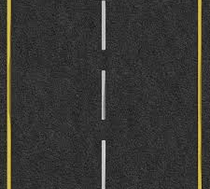
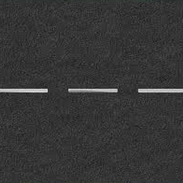
ajout texture route

diff --git a/src/utils.cpp b/src/utils.cpp
@@ -59,11 +59,11 @@ static void vecteur_orthogonal (std::vector<Point> & points, std::vector<Vector>
 
 static void points_cercle(Point & p1, Point & p2, Vector & v, std::vector<Point> & pc, std::vector<Vector> & nm){
   Vector axe(p1,p2);
-  float angle = 30.0;
+  float angle = 10.0;
   Transform tr = Rotation(axe, angle);
   Transform tt;
   Point p, pt;
-  for(int i = 0; i < 12; i++){
+  for(int i = 0; i < 36; i++){
     v = tr(v);
     tt = Translation(v);
     p = Point (p1.x-v.x, p1.y-v.y, p1.z-v.z);
@@ -124,6 +124,7 @@ static float longueur_tube(const std::vector<Point> & points) {
 
 static void dessine_triangles(Mesh& m, const std::vector<std::vector<Point>> & cercles, const std::vector<std::vector<Vector>> & norm, const float & lgt){
   unsigned int i, j,a, b, c, d, la, lb, lc, ld;
+  unsigned int repete = 15;
   float lgp = 0.0;
   float lgps = 0.0;
   float ang,angs;
@@ -137,20 +138,20 @@ static void dessine_triangles(Mesh& m, const std::vector<std::vector<Point>> & c
     for(j = 0; j < cercles[i].size() - 1; j++){
       ang = (float(j)*30)/360;
       angs = (float(j+1)*30)/360;
-      std::cout<<lgp/lgt << " , " << angs << std::endl;
-      a = m.texcoord(lgp/lgt, ang).normal(norm[i][j]).vertex(cercles[i][j]);
-      b = m.texcoord(lgps/lgt, ang).normal(norm[i+1][j]).vertex(cercles[i+1][j]);
-      c = m.texcoord(lgps/lgt, angs).normal(norm[i+1][j+1]).vertex(cercles[i+1][j+1]);
-      d = m.texcoord(lgp/lgt, angs).normal(norm[i][j+1]).vertex(cercles[i][j+1]);
+      std::cout<<lgp/lgt * repete << " , " << angs << std::endl;
+      a = m.texcoord(lgp/lgt * repete, ang).normal(norm[i][j]).vertex(cercles[i][j]);
+      b = m.texcoord(lgps/lgt * repete, ang).normal(norm[i+1][j]).vertex(cercles[i+1][j]);
+      c = m.texcoord(lgps/lgt * repete, angs).normal(norm[i+1][j+1]).vertex(cercles[i+1][j+1]);
+      d = m.texcoord(lgp/lgt * repete, angs).normal(norm[i][j+1]).vertex(cercles[i][j+1]);
 
       m.triangle(a,c,b);
       m.triangle(a,d,c);
 
       if(j == cercles[i].size() - 2){
-        la = m.texcoord(lgp/lgt, angs).normal(norm[i][j+1]).vertex(cercles[i][j+1]);
-        lb = m.texcoord(lgps/lgt, angs).normal(norm[i+1][j+1]).vertex(cercles[i+1][j+1]);
-        lc = m.texcoord(lgps/lgt, 0).normal(norm[i+1][0]).vertex(cercles[i+1][0]);
-        ld = m.texcoord(lgp/lgt, 0).normal(norm[i][0]).vertex(cercles[i][0]);
+        la = m.texcoord(lgp/lgt * repete, angs).normal(norm[i][j+1]).vertex(cercles[i][j+1]);
+        lb = m.texcoord(lgps/lgt * repete, angs).normal(norm[i+1][j+1]).vertex(cercles[i+1][j+1]);
+        lc = m.texcoord(lgps/lgt * repete, 0).normal(norm[i+1][0]).vertex(cercles[i+1][0]);
+        ld = m.texcoord(lgp/lgt * repete, 0).normal(norm[i][0]).vertex(cercles[i][0]);
 
         m.triangle(la,lc,lb);
         m.triangle(la,ld,lc);

diff --git a/src/jeu.cpp b/src/jeu.cpp
@@ -16,7 +16,7 @@ public:
       nb_obstacles = 30;
 
       //charge l'objet
-      objet= read_mesh("projet/data/voiture.obj");
+      objet= read_mesh("projet/data/cube.obj");
 
       // Initialisation du tableau d'obstacles
       initObstacles();
@@ -55,7 +55,11 @@ public:
 
 
       console = create_text();
-      texture_route = read_texture(0, "projet/data/road.png");
+      texture_route = read_texture(0, "projet/data/route3-min.jpg");
+
+      glTexParameteri(GL_TEXTURE_2D, GL_TEXTURE_WRAP_S, GL_REPEAT);
+      glTexParameteri(GL_TEXTURE_2D, GL_TEXTURE_WRAP_T, GL_REPEAT);
+
       texture_voiture = read_texture(0, "projet/data/couleur-voiture.jpg");
 
 
@@ -92,7 +96,7 @@ public:
       glClear(GL_COLOR_BUFFER_BIT | GL_DEPTH_BUFFER_BIT);
 
       if (!finJeu){
-        indice += niveau + 2;
+        indice += niveau + 4;
         if (indice > tube.getNbPoints() - 2) {
           niveau += 1;
           indice = 1;
@@ -115,7 +119,7 @@ public:
       Vector na(R(n));
       Point pos_objet = p + tube.getR() * na;
 
-      Transform m_transform_objet = atlook(pos_objet, pos_objet + d, na)*Translation(0,tube.getR()/6,0)*Scale(2,2,2);
+      Transform m_transform_objet = atlook(pos_objet, pos_objet + d, na)*Translation(0,tube.getR()/6,0)*Scale(0.2,0.2,0.2);
 
       Transform m_transform_camera = Translation(1.5*na)*Translation(50*d);
 
